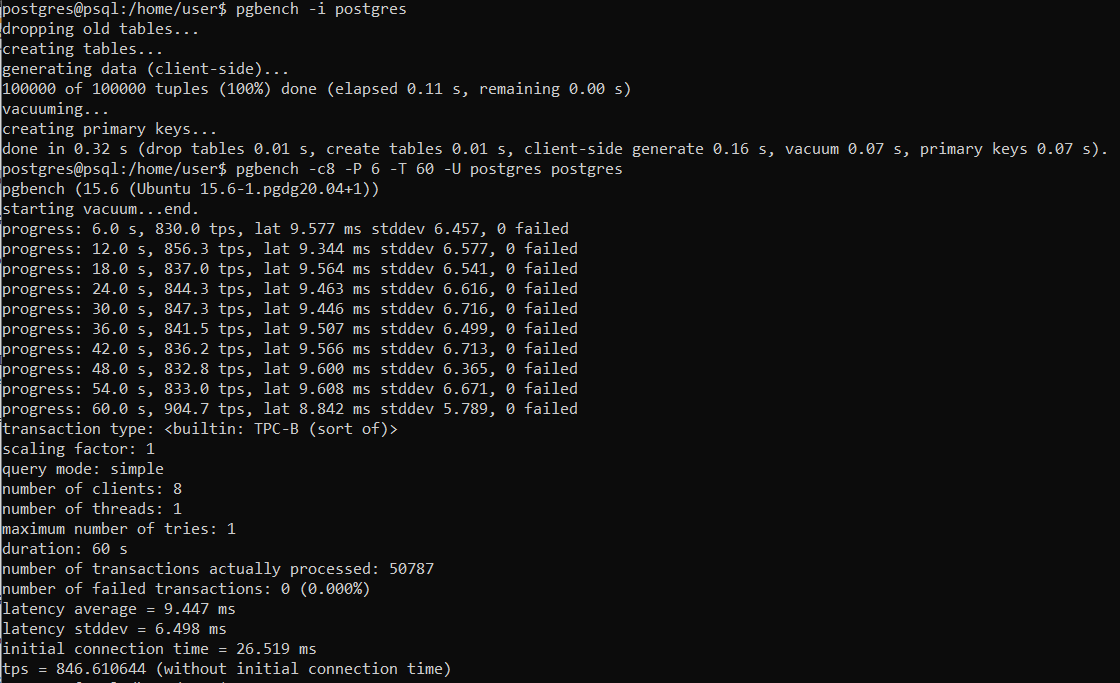
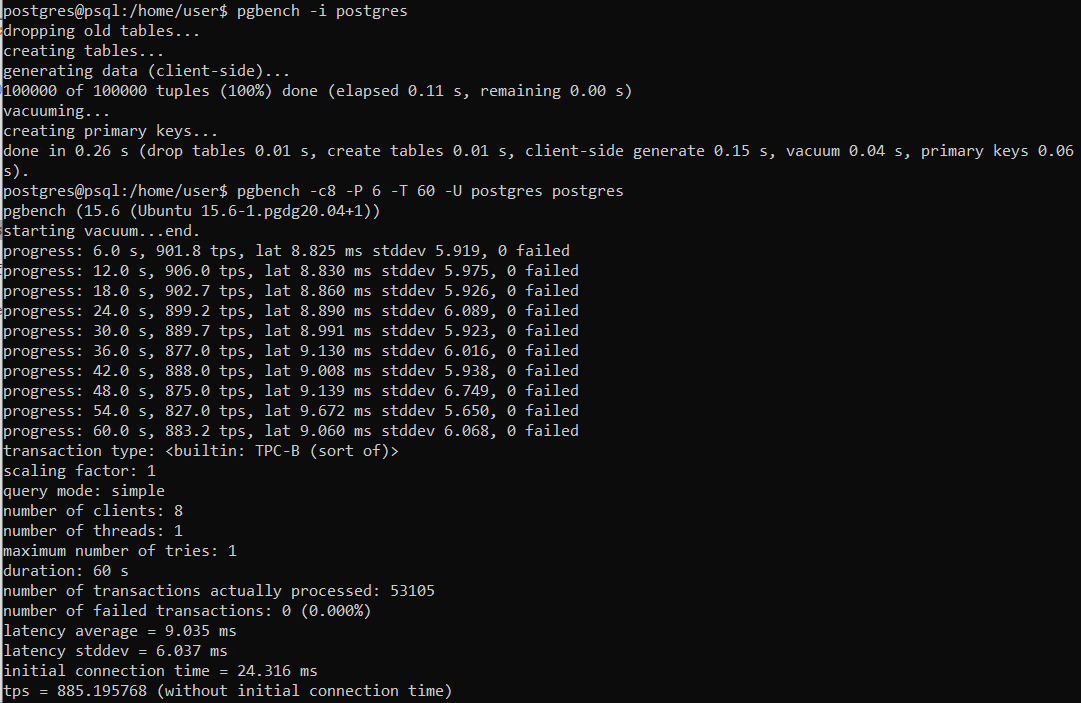
hw05

Changed region(s): [[0.0, 0.0, 1.0, 1.0]]

diff --git a/HW05/README.md b/HW05/README.md
@@ -14,29 +14,19 @@
 	
 2. Применить параметры настройки PostgreSQL из прикрепленного к материалам занятия файла
    
-> max_connections = 40
-
-> shared_buffers = 1GB
-
-> effective_cache_size = 3GB
-
-> maintenance_work_mem = 512MB
-
-> checkpoint_completion_target = 0.9
-
-> wal_buffers = 16MB
-
-> default_statistics_target = 500
-
-> random_page_cost = 4
-
-> effective_io_concurrency = 2
-
-> work_mem = 65536kB
-
-> min_wal_size = 4GB
-
-> max_wal_size = 16GB
+> autovacuum = on 
+ 
+> autovacuum_vacuum_threshold = 100 
+ 
+> autovacuum_analyze_threshold = 100
+ 
+> autovacuum_vacuum_scale_factor = 0.5
+ 
+> autovacuum_analyze_scale_factor = 0.2
+ 
+> autovacuum_vacuum_cost_delay = 50
+ 
+> autovacuum_vacuum_cost_limit = 500
     
 3. Протестировать заново  
     
@@ -44,28 +34,102 @@
 
 4. Что изменилось и почему?
    
-На мой взгляд особо ни чего не изменилось.
+Увеличилось tps и соответственно во время второго теста было совершено больше транзакций. Правильно настроеннный вакуум обеспечивает прирост производительности БД.
 
 5. Создать таблицу с текстовым полем и заполнить случайными или сгенерированными данным в размере 1млн строк
 
+> CREATE TABLE student(id serial, fio char(100));
+
+> INSERT INTO student(fio) SELECT 'name1' FROM generate_series(1,1000000);
+
 6. Посмотреть размер файла с таблицей
+
+> SELECT pg_size_pretty(pg_total_relation_size('student'));
+
+> 135 MB
 
 7. 5 раз обновить все строчки и добавить к каждой строчке любой символ
 
+> UPDATE student SET fio = 'name12';
+
+> UPDATE student SET fio = 'name123';
+
+> UPDATE student SET fio = 'name1234';
+
+> UPDATE student SET fio = 'name12345';
+
+> UPDATE student SET fio = 'name123456';
+
 8. Посмотреть количество мертвых строчек в таблице и когда последний раз приходил автовакуум
+
+> SELECT relname, n_live_tup, n_dead_tup, trunc(100*n_dead_tup/(n_live_tup+1))::float AS "ratio%", last_autovacuum FROM pg_stat_user_tables WHERE relname = 'student';
+
+> n_dead_tup =  4999944
 
 9. Подождать некоторое время, проверяя, пришел ли автовакуум
 
+> SELECT relname, n_live_tup, n_dead_tup, trunc(100*n_dead_tup/(n_live_tup+1))::float AS "ratio%", last_autovacuum FROM pg_stat_user_tables WHERE relname = 'student';
+
+> last_autovacuum = 2024-05-01 09:05:05.929488+03
+
+> last_autovacuum = 2024-05-01 09:21:45.74986+03 - автовакуум пришел
+
+> n_dead_tup =  0
+
 10. 5 раз обновить все строчки и добавить к каждой строчке любой символ
+
+> UPDATE student SET fio = 'name1234565';
+
+> UPDATE student SET fio = 'name12345654';
+
+> UPDATE student SET fio = 'name123456543';
+
+> UPDATE student SET fio = 'name1234565432';
+
+> UPDATE student SET fio = 'name12345654321';
 
 11. Посмотреть размер файла с таблицей
 
+> SELECT pg_size_pretty(pg_total_relation_size('student'));
+
+> 808 MB
+
 12. Отключить Автовакуум на конкретной таблице
+
+> ALTER TABLE student SET (autovacuum_enabled = false);
 
 13. 10 раз обновить все строчки и добавить к каждой строчке любой символ
 
+> UPDATE student SET fio = 'name12';
+
+> UPDATE student SET fio = 'name123';
+
+> UPDATE student SET fio = 'name1234';
+
+> UPDATE student SET fio = 'name12345';
+
+> UPDATE student SET fio = 'name123456';
+
+> UPDATE student SET fio = 'name1234565';
+
+> UPDATE student SET fio = 'name12345654';
+
+> UPDATE student SET fio = 'name123456543';
+
+> UPDATE student SET fio = 'name1234565432';
+
+> UPDATE student SET fio = 'name12345654321';
+
 14. Посмотреть размер файла с таблицей
+
+> SELECT pg_size_pretty(pg_total_relation_size('student'));
+
+> 1925 MB
 
 15. Объясните полученный результат
 
+При отключенном автовакууме размер файла с таблицей будет постоянно расти т.к. не будут очищаться "мертвые строки". Когда "мертвые строки" очищаются из таблици автовакуумом, новые данные записываются сначала на освобожденные места тем самым физически файл с таблицей не растет пока есть освободившиеся место.
+
 16. Не забудьте включить автовакуум)
+
+> ALTER TABLE student SET (autovacuum_enabled = true);
